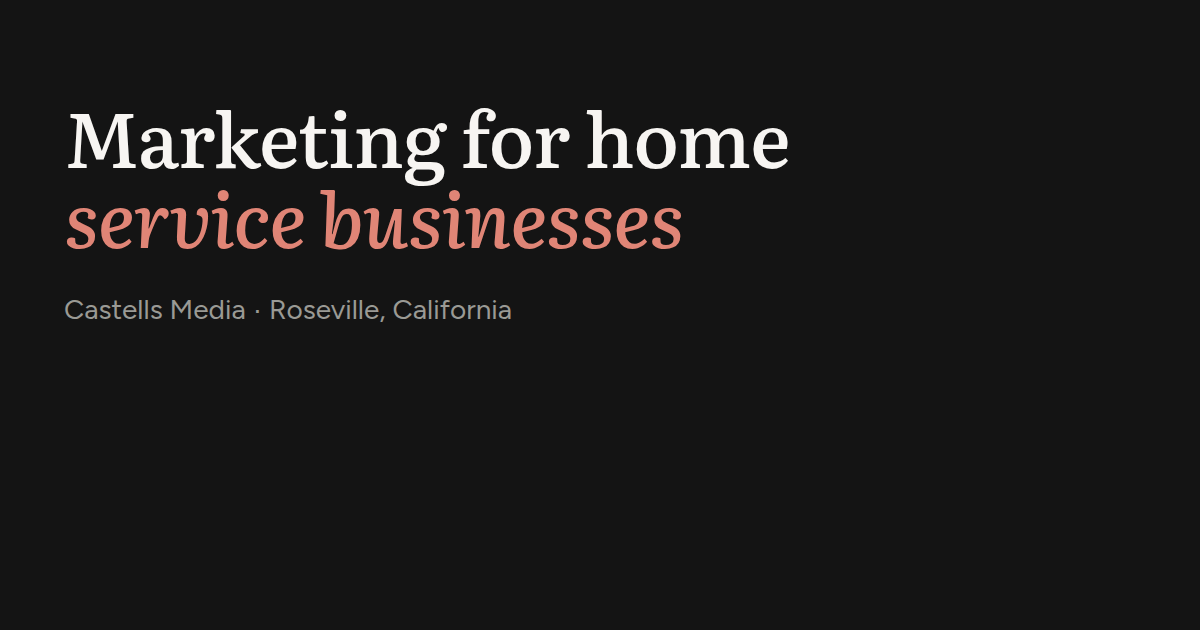
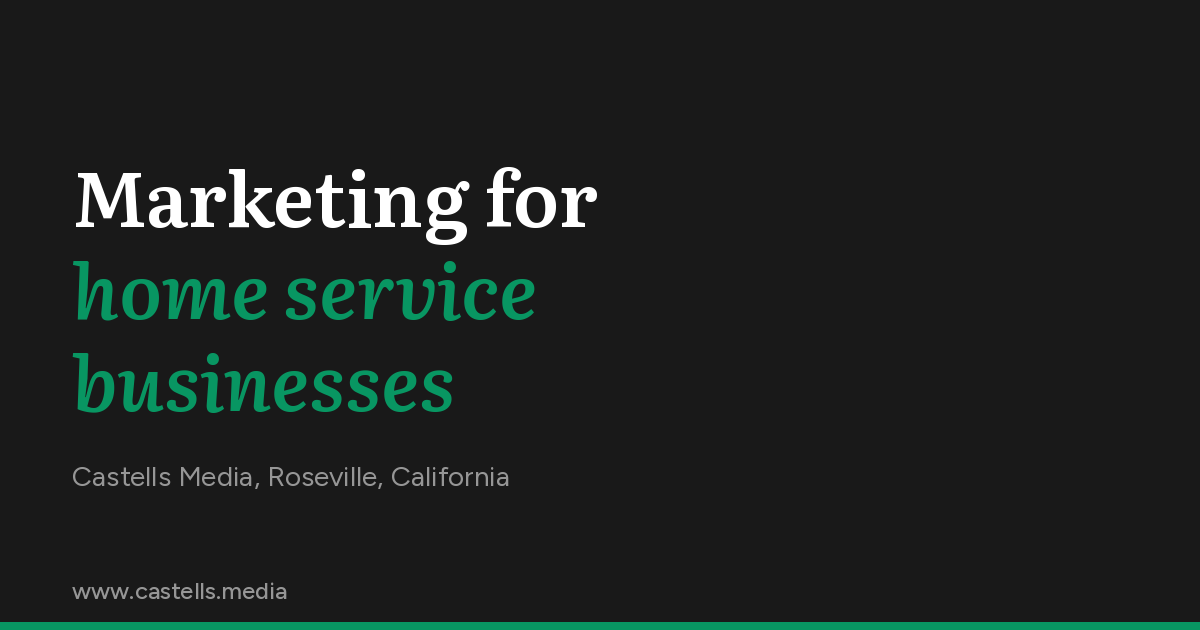
fix: картинка для соцсетей была старого цвета и наполовину пустая
Её видно только снаружи — в чужой ленте, в пересланном сообщении, — поэтому
она пережила смену акцентного цвета незамеченной. Слова «service businesses»
на ней оставались кораллово-розовыми с 24 августа, когда сайт стал зелёным.
Ссылка на нас выглядела как ссылка на чужой сайт. Плюс нижняя половина
пустовала: текст жался к верхнему краю и картинка читалась обрезанной.

СДЕЛАНО СКРИПТОМ, А НЕ РУКАМИ. У картинки есть источник правды — первый экран
сайта: тот же заголовок, те же цвета, ТЕ ЖЕ шрифты из public/fonts. Нарисованная
руками, она разъедется снова при следующей смене цвета, и снова этого никто не
заметит. Одиннадцать самопроверок, среди них две по существу: старого
кораллового быть не должно, и нижняя половина не должна пустовать.

ПОПУТНО НАШЛАСЬ ДЫРА В ШРИФТАХ. Первая версия картинки вышла с пропущенным
разделителем: «Castells Media    Roseville, California». Проверка по таблице
шрифта показала, что средней точки U+00B7 в наших шрифтах НЕТ — они урезаны до
108 символов ради веса, и она в набор не попала.

Сайт при этом использует её в восьми местах, включая первый экран. Там она
видна, потому что браузер подставляет системный шрифт на один символ: не
сломано, но чужой шрифт посреди своей строки. U+00B7 добавлена в набор
scripts/subset-fonts.sh — подхватится при следующей пересборке шрифтов, для
которой нужны ПОЛНЫЕ файлы Literata и Figtree (в репозитории лежат урезанные).

В самой картинке разделитель заменён на запятую и добавлена проверка, что
[…]

diff --git a/scripts/make-og-image.py b/scripts/make-og-image.py
@@ -1,0 +1,184 @@
+#!/usr/bin/env python3
+"""
+Картинка, которую показывают соцсети и мессенджеры при отправке ссылки.
+
+ЗАЧЕМ ПЕРЕДЕЛЫВАЛОСЬ 26 августа 2026. Прежняя была нарисована при старом
+акцентном цвете: слова «service businesses» на ней кораллово-розовые, а сайт
+с 24 августа зелёный. Ссылка на сайт выглядела как ссылка на чужой сайт.
+Вдобавок нижняя половина пустовала — текст жался к верхнему краю.
+
+ПОЧЕМУ СКРИПТ, А НЕ ОДИН PNG В ПАПКЕ. Картинка повторяет главный экран сайта,
+то есть у неё есть источник правды: заголовок, цвета и шрифты. Пока она
+рисуется руками, она снова разъедется с сайтом при следующей смене цвета — и
+никто этого не заметит, потому что видна она только снаружи, в чужой ленте.
+Шрифты берутся ТЕ ЖЕ, что на сайте, из public/fonts.
+
+Запуск:  python3 scripts/make-og-image.py
+Проверка: python3 scripts/make-og-image.py --self-test
+"""
+
+import os
+import subprocess
+import sys
+import tempfile
+from pathlib import Path
+
+# ── самоподъём окружения ──────────────────────────────────────────────────
+# Pillow и fontTools не входят в системный python и ставить их туда нельзя.
+# Скрипт сам заводит себе окружение и перезапускается в нём — по образцу
+# соседнего scripts/subset-fonts.sh. Папка постоянная, а не временная:
+# у соседа она в TMPDIR и вычищается системой, из-за чего он переставляет
+# библиотеки на каждом запуске.
+_ОКРУЖЕНИЕ = Path.home() / ".cache" / "castells-fonttools"
+_PY = _ОКРУЖЕНИЕ / "bin" / "python"
+
+if not os.environ.get("OG_IMAGE_В_ОКРУЖЕНИИ"):
+    try:
+        import PIL  # noqa: F401
+        import fontTools  # noqa: F401
+    except ImportError:
+        if not _PY.exists():
+            print(f"ставлю Pillow и fonttools в {_ОКРУЖЕНИЕ}")
+            subprocess.run([sys.executable, "-m", "venv", str(_ОКРУЖЕНИЕ)], check=True)
+            subprocess.run([str(_ОКРУЖЕНИЕ / "bin" / "pip"), "install", "--quiet",
+                            "fonttools[woff]", "brotli", "Pillow"], check=True)
+        среда = {**os.environ, "OG_IMAGE_В_ОКРУЖЕНИИ": "1"}
+        sys.exit(subprocess.run([str(_PY), __file__, *sys.argv[1:]], env=среда).returncode)
+
+from PIL import Image, ImageDraw, ImageFont
+from fontTools.ttLib import TTFont
+from fontTools.varLib import instancer
+
+КОРЕНЬ = Path(__file__).resolve().parent.parent
+ШРИФТЫ = КОРЕНЬ / "public" / "fonts"
+ВЫХОД = КОРЕНЬ / "public" / "og-image.png"
+
+# Размер, который ждут соцсети. Меньше — размывает, больше — режут края.
+ШИРИНА, ВЫСОТА = 1200, 630
+
+# Цвета берутся из index.css, блок @theme. Тёмная тема: сайт при отправке
+# ссылки чаще открывают с телефона, а там тёмная чаще включена.
+ФОН = (25, 25, 25)
+БЕЛЫЙ = (255, 255, 255)
+АКЦЕНТ = (8, 150, 98)      # --color-accent, на тёмном даёт 4.65 — проходит
+ПРИГЛУШЁННЫЙ = (150, 150, 150)
+
+ПОЛЕ = 72
+
+
+def распаковать(имя: str, вес: int | None, папка: Path) -> Path:
+    """
+    woff2 Pillow не читает, поэтому распаковываем в ttf. У переменных шрифтов
+    заодно закрепляем нужную насыщенность: без этого берётся значение по
+    умолчанию, а оно у Literata тоньше, чем на сайте.
+    """
+    ttf = TTFont(ШРИФТЫ / имя)
+    if вес is not None and "fvar" in ttf:
+        оси = {a.axisTag for a in ttf["fvar"].axes}
+        закрепить = {}
+        if "wght" in оси:
+            закрепить["wght"] = вес
+        if "opsz" in оси:
+            закрепить["opsz"] = 36  # оптический размер под крупный заголовок
+        if закрепить:
+            ttf = instancer.instantiateVariableFont(ttf, закрепить)
+    путь = папка / (имя.replace(".woff2", "") + ".ttf")
+    ttf.flavor = None
+    ttf.save(путь)
+    return путь
+
+
+def нарисовать(выход: Path = ВЫХОД) -> Path:
+    with tempfile.TemporaryDirectory() as врем:
+        п = Path(врем)
+        заголовок = ImageFont.truetype(str(распаковать("literata-variable.woff2", 600, п)), 76)
+        курсив = ImageFont.truetype(str(распаковать("literata-italic.woff2", 600, п)), 76)
+        подпись = ImageFont.truetype(str(распаковать("figtree-variable.woff2", 400, п)), 28)
+        мелкий = ImageFont.truetype(str(распаковать("figtree-variable.woff2", 500, п)), 24)
+
+        холст = Image.new("RGB", (ШИРИНА, ВЫСОТА), ФОН)
+        рис = ImageDraw.Draw(холст)
+
+        # Заголовок повторяет первый экран сайта, включая курсивную вторую
+        # строку акцентным цветом — так ссылка узнаётся до перехода.
+        строки = [
+            ("Marketing for", заголовок, БЕЛЫЙ),
+            ("home service", курсив, АКЦЕНТ),
+            ("businesses", курсив, АКЦЕНТ),
+        ]
+        межстрочный = 92
+        блок = межстрочный * len(строки)
+
+        # Блок ставим по вертикальной оси, а не к верхнему краю: у прежней
+        # картинки нижняя половина пустовала и она читалась как обрезанная.
+        верх = (ВЫСОТА - блок) // 2 - 40
+        for i, (текст, шрифт, цвет) in enumerate(строки):
+            рис.text((ПОЛЕ, верх + i * межстрочный), текст, font=шрифт, fill=цвет)
+
+        # Разделитель — запятая, а не средняя точка. Средней точки НЕТ в наших
+        # шрифтах: они урезаны до 108 символов ради веса, и U+00B7 в набор не
+        # попал. На сайте она поэтому рисуется системным шрифтом-заменителем,
+        # а здесь рисовать нечем — вышла бы дыра. Проверено по таблице шрифта.
+        низ = верх + блок + 46
+        рис.text((ПОЛЕ, низ), "Castells Media, Roseville, California", font=подпись, fill=ПРИГЛУШЁННЫЙ)
+
+        # Полоса акцентного цвета у нижнего края: заполняет пустоту и держит
+        # композицию, ничего при этом не утверждая.
+        рис.rectangle([0, ВЫСОТА - 8, ШИРИНА, ВЫСОТА], fill=АКЦЕНТ)
+        рис.text((ПОЛЕ, ВЫСОТА - 8 - 46), "www.castells.media", font=мелкий, fill=ПРИГЛУШЁННЫЙ)
+
+        холст.save(выход, "PNG", optimize=True)
+    return выход
+
+
+def самопроверка() -> int:
+    проверки = []
+
+    def t(имя, условие):
+        проверки.append((имя, bool(условие)))
+
+    for имя in ("literata-variable.woff2", "literata-italic.woff2", "figtree-variable.woff2"):
+        t(f"шрифт сайта на месте: {имя}", (ШРИФТЫ / имя).exists())
+
+    with tempfile.TemporaryDirectory() as врем:
+        путь = нарисовать(Path(врем) / "og.png")
+        t("файл создан", путь.exists())
+        img = Image.open(путь)
+        t("размер 1200x630, как ждут соцсети", img.size == (ШИРИНА, ВЫСОТА))
+        цвета = {c for _, c in img.convert("RGB").getcolors(maxcolors=1_000_000)}
+
+        def близко(цель, допуск=26):
+            return any(sum(abs(a - b) for a, b in zip(цвет, цель)) <= допуск for цвет in цвета)
+
+        t("акцентный цвет сайта присутствует", близко(АКЦЕНТ))
+        t("белый текст присутствует", близко(БЕЛЫЙ))
+        t("фон тёмный, как у сайта", близко(ФОН))
+        # Главное, ради чего всё затевалось: старого кораллового быть не должно
+        коралл = (232, 131, 111)
+        t("старого кораллового цвета НЕТ", not близко(коралл, допуск=60))
+        # Нижняя половина не должна пустовать
+        низ = img.crop((0, ВЫСОТА // 2, ШИРИНА, ВЫСОТА)).convert("RGB")
+        небазовых = sum(n for n, c in низ.getcolors(maxcolors=1_000_000) if sum(abs(a - b) for a, b in zip(c, ФОН)) > 30)
+        t("нижняя половина не пустая", небазовых > 4000)
+
+        # Символы подписи обязаны быть В шрифте: иначе на месте буквы дыра,
+        # и заметит её только тот, кто увидит ссылку в чужой ленте.
+        from fontTools.ttLib import TTFont as _TT
+        набор = set(_TT(ШРИФТЫ / "figtree-variable.woff2").getBestCmap().keys())
+        подписи = ["Castells Media, Roseville, California", "www.castells.media"]
+        нет = {c for т in подписи for c in т if ord(c) not in набор}
+        t(f"все символы подписи есть в шрифте{'' if not нет else ' — нет: ' + repr(нет)}", not нет)
+
+    for имя, ок in проверки:
+        print(f"  {'ok  ' if ок else 'ПЛОХО'} {имя}")
+    плохо = [и for и, о in проверки if not о]
+    print(f"\n{len(проверки) - len(плохо)}/{len(проверки)} проверок пройдено")
+    return 1 if плохо else 0
+
+
+if __name__ == "__main__":
+    if "--self-test" in sys.argv:
+        sys.exit(самопроверка())
+    путь = нарисовать()
+    размер = путь.stat().st_size
+    print(f"og-image: {путь.relative_to(КОРЕНЬ)} — {ШИРИНА}x{ВЫСОТА}, {размер // 1024} КБ")
